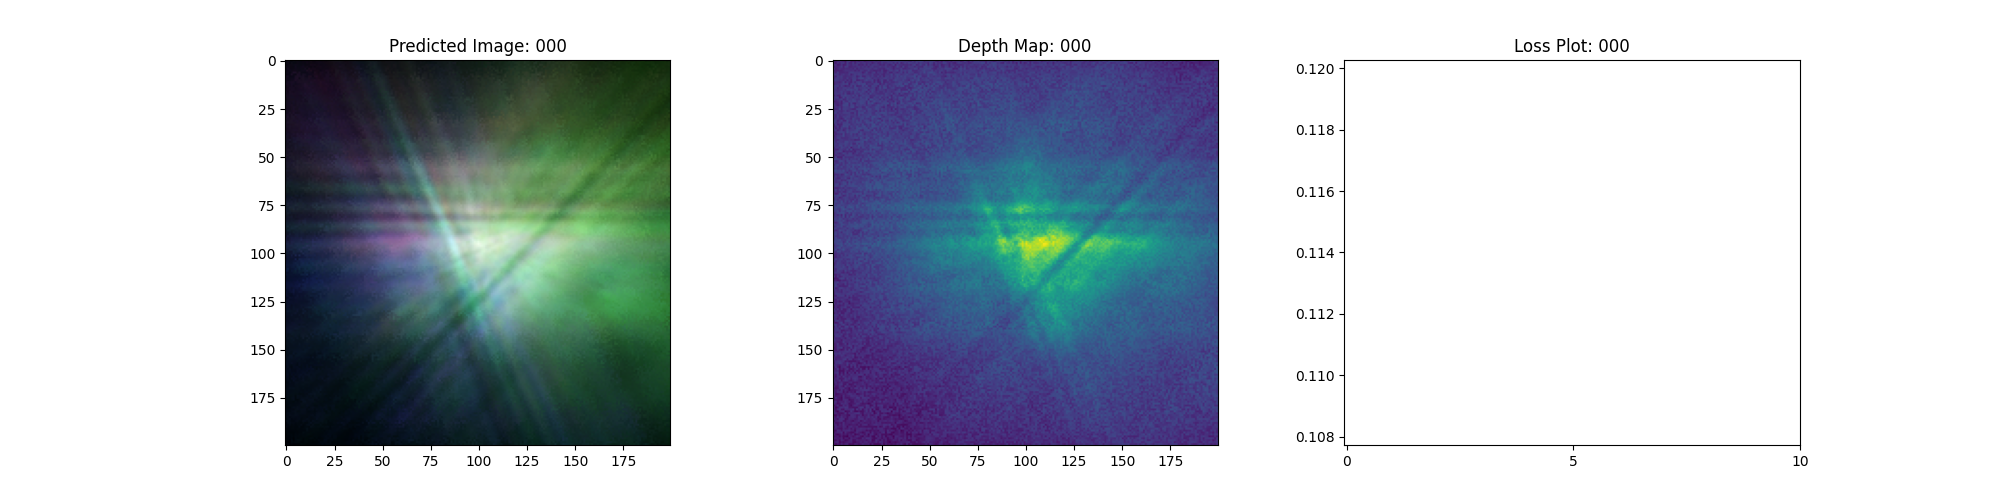
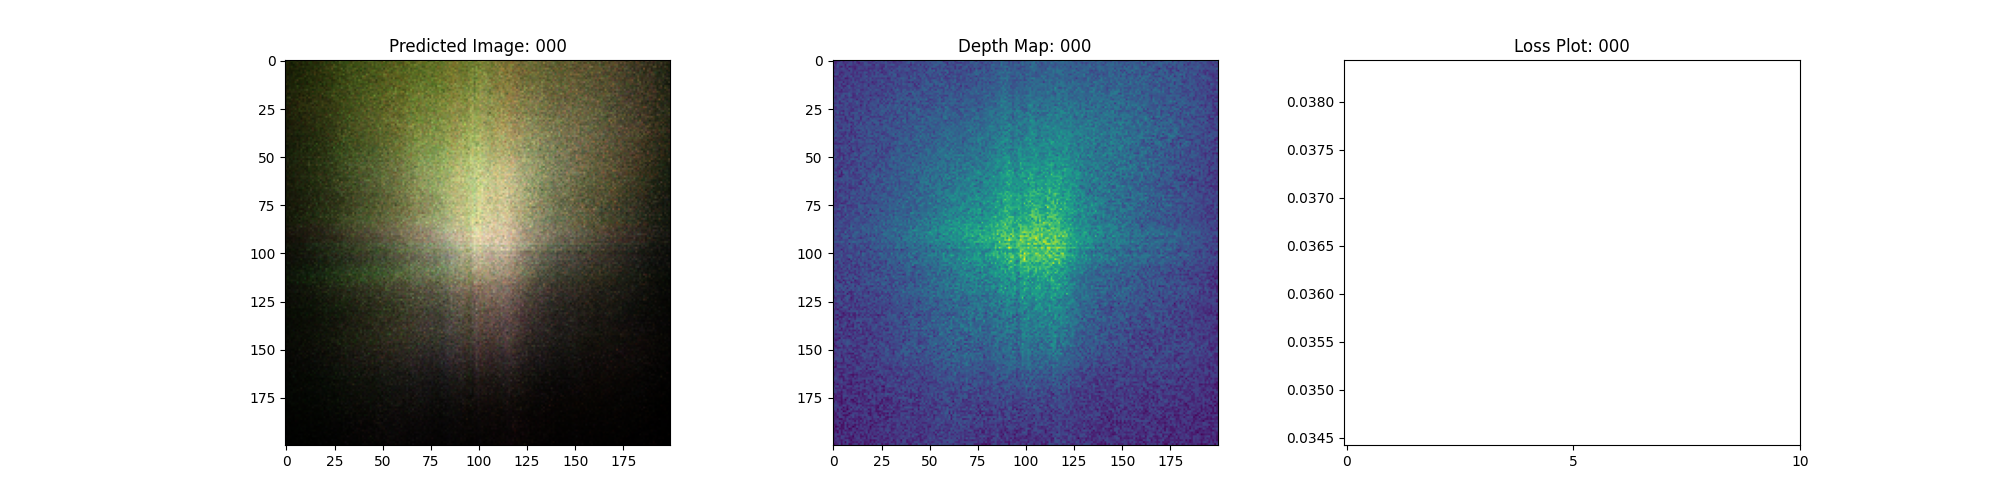
tuned parameters and training completed

diff --git a/train.py b/train.py
@@ -80,14 +80,16 @@ testDs = tf.data.Dataset.zip((testImageDs,testRayDs,))
 # build data input pipeline for train, val, and test datasets
 trainDs = (
     trainDs
-    .shuffle(config.BATCH_SIZE)
-    .batch(config.BATCH_SIZE)
+    .shuffle(config.BATCH_SIZE,)
+    .batch(config.BATCH_SIZE, drop_remainder=True, num_parallel_calls=config.AUTO).
+    repeat(2)
     .prefetch(config.AUTO)
 )
 valDs = (
     valDs
     .shuffle(config.BATCH_SIZE)
-    .batch(config.BATCH_SIZE)
+    .batch(config.BATCH_SIZE, drop_remainder=True, num_parallel_calls=config.AUTO)
+    .repeat(2)
     .prefetch(config.AUTO)
 )
 testDs = (
@@ -145,10 +147,10 @@ if not os.path.exists("images"):
 model.fit(
     trainDs,
     validation_data=valDs,
-    batch_size=config.BATCH_SIZE,
+    #batch_size=config.BATCH_SIZE,
     epochs=config.EPOCHS,
     callbacks=[TrainMonitor()],
-    steps_per_epoch=config.STEPS_PER_EPOCH,
+   # steps_per_epoch=config.STEPS_PER_EPOCH,
 )
 
 

diff --git a/nerfutils/config.py b/nerfutils/config.py
@@ -30,13 +30,15 @@ FAR = 6
 SKIP_LAYER = 4
 DENSE_UNITS = 64
 
-BATCH_SIZE = 6
-NUM_SAMPLES = 32
-POS_ENCODE_DIMS = 4
+BATCH_SIZE = 2
+NUM_SAMPLES = 16
+POS_ENCODE_DIMS = 16
 
-STEPS_PER_EPOCH = 2
-VALIDATION_STEPS = 2
-EPOCHS =3
+STEPS_PER_EPOCH = 20
+VALIDATION_STEPS = 20
+EPOCHS = 10
 
 COARSE_PATH = main_dir + "/output"
 FINE_PATH = main_dir + "/output"
+
+#VALIDATION_STEPS = TRAIN_EXAMPLE // BATCH_SIZE
